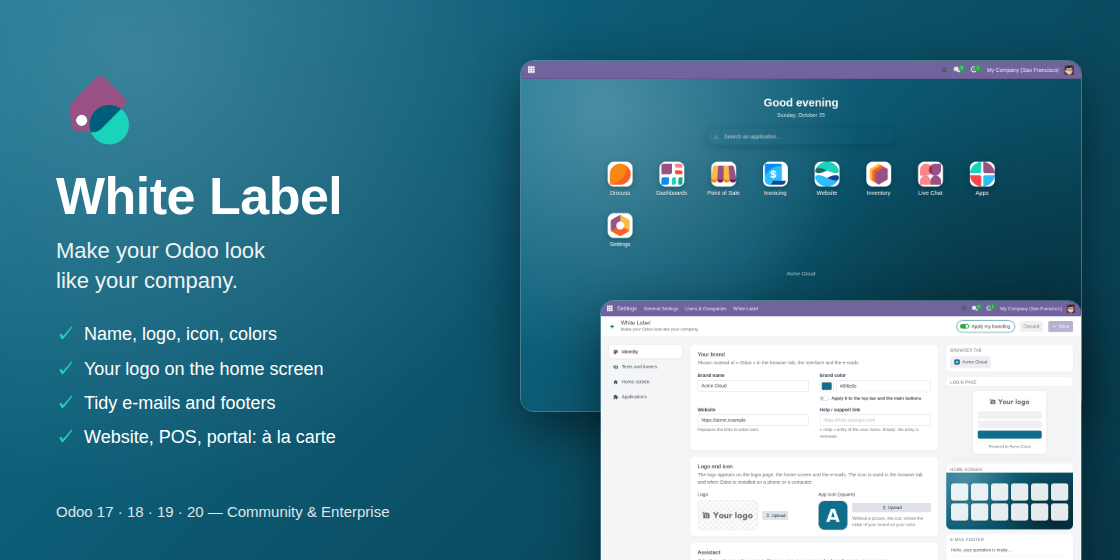
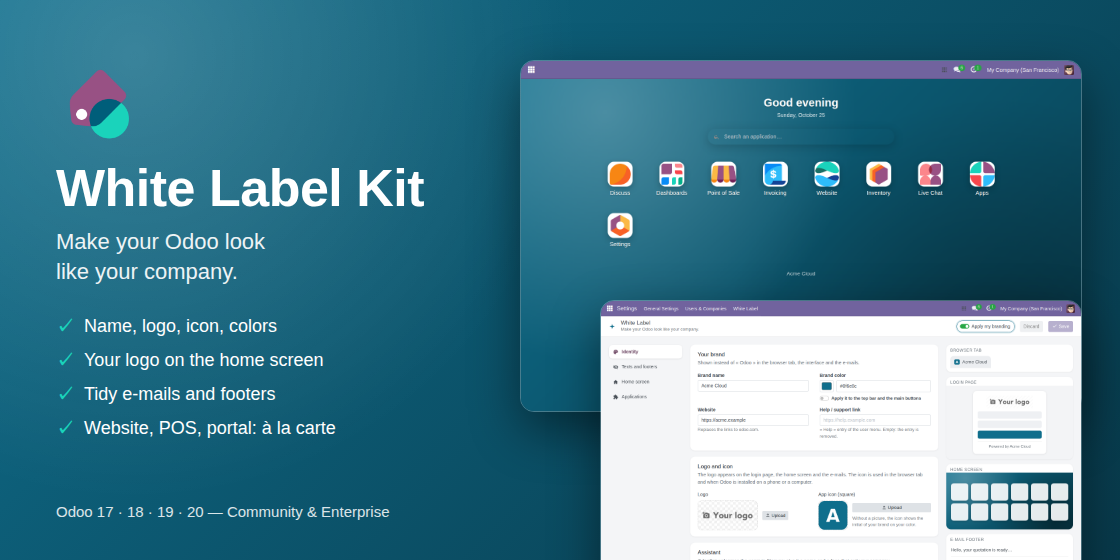
White Label Kit 1.0.2: cover images

diff --git a/white_label_kit_enterprise/__manifest__.py b/white_label_kit_enterprise/__manifest__.py
@@ -12,5 +12,6 @@
         'web.assets_backend': ['white_label_kit_enterprise/static/src/scss/*.scss'],
         'web.assets_frontend': ['white_label_kit_enterprise/static/src/scss/*.scss'],
     },
+    'images': ['static/description/banner.png'],
     'installable': True,
 }

diff --git a/white_label_kit_website/__manifest__.py b/white_label_kit_website/__manifest__.py
@@ -11,5 +11,6 @@
     'data': ['views/website_templates.xml'],
     'post_init_hook': 'post_init_hook',
     'uninstall_hook': 'uninstall_hook',
+    'images': ['static/description/banner.png'],
     'installable': True,
 }

diff --git a/white_label_kit_livechat/__manifest__.py b/white_label_kit_livechat/__manifest__.py
@@ -9,5 +9,6 @@
     'license': 'OPL-1',
     'depends': ['white_label_kit', 'im_livechat'],
     'data': ['views/livechat_templates.xml'],
+    'images': ['static/description/banner.png'],
     'installable': True,
 }

diff --git a/white_label_kit_portal/__manifest__.py b/white_label_kit_portal/__manifest__.py
@@ -9,5 +9,6 @@
     'license': 'OPL-1',
     'depends': ['white_label_kit', 'portal'],
     'data': ['views/portal_templates.xml'],
+    'images': ['static/description/banner.png'],
     'installable': True,
 }

diff --git a/white_label_kit_pos/__manifest__.py b/white_label_kit_pos/__manifest__.py
@@ -23,5 +23,6 @@
             'white_label_kit_pos/static/src/js/*.js',
         ],
     },
+    'images': ['static/description/banner.png'],
     'installable': True,
 }
